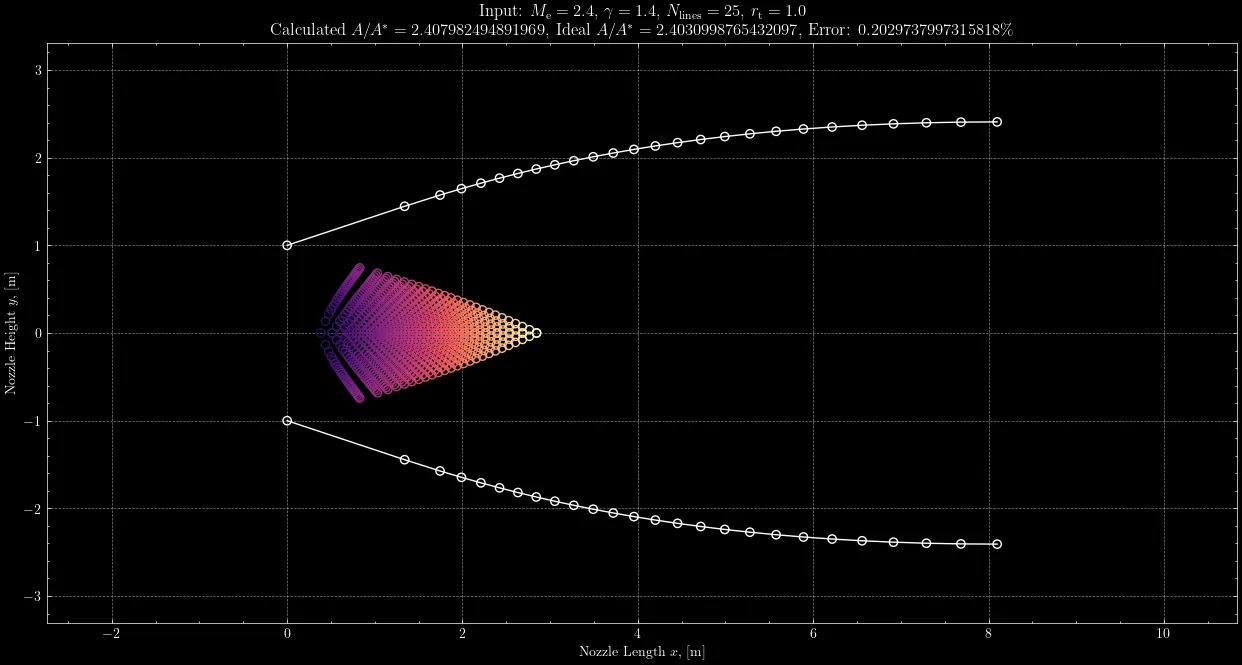
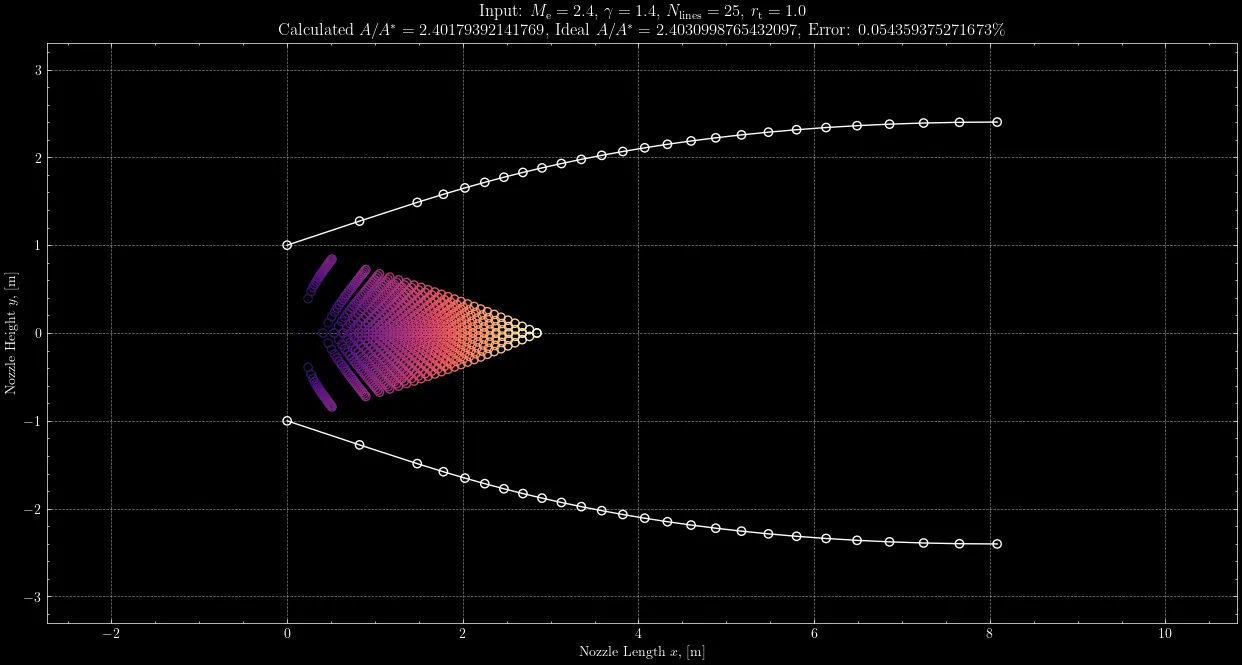
4x faster algorithm

diff --git a/src/min_len_nozzle.py b/src/min_len_nozzle.py
@@ -34,7 +34,7 @@ from newton_raphson import newton_raphson
 GAMMA:      float = 1.4
 MACH_E:     float = 2.4
 RAD_THROAT: float = 1.0
-N_LINES:    int   = 100
+N_LINES:    int   = 25
 
 # Global method switch for the inverse Prandtl-Meyer function
 METHOD: str = 'newton'

diff --git a/src/axisymm_nozzle.py b/src/axisymm_nozzle.py
@@ -1,4 +1,4 @@
-# module axisym_nozzle
+# module axisymm_nozzle
 '''
 Axisymmetric supersonic nozzle design using the 2-D method of characteristics.
 '''
